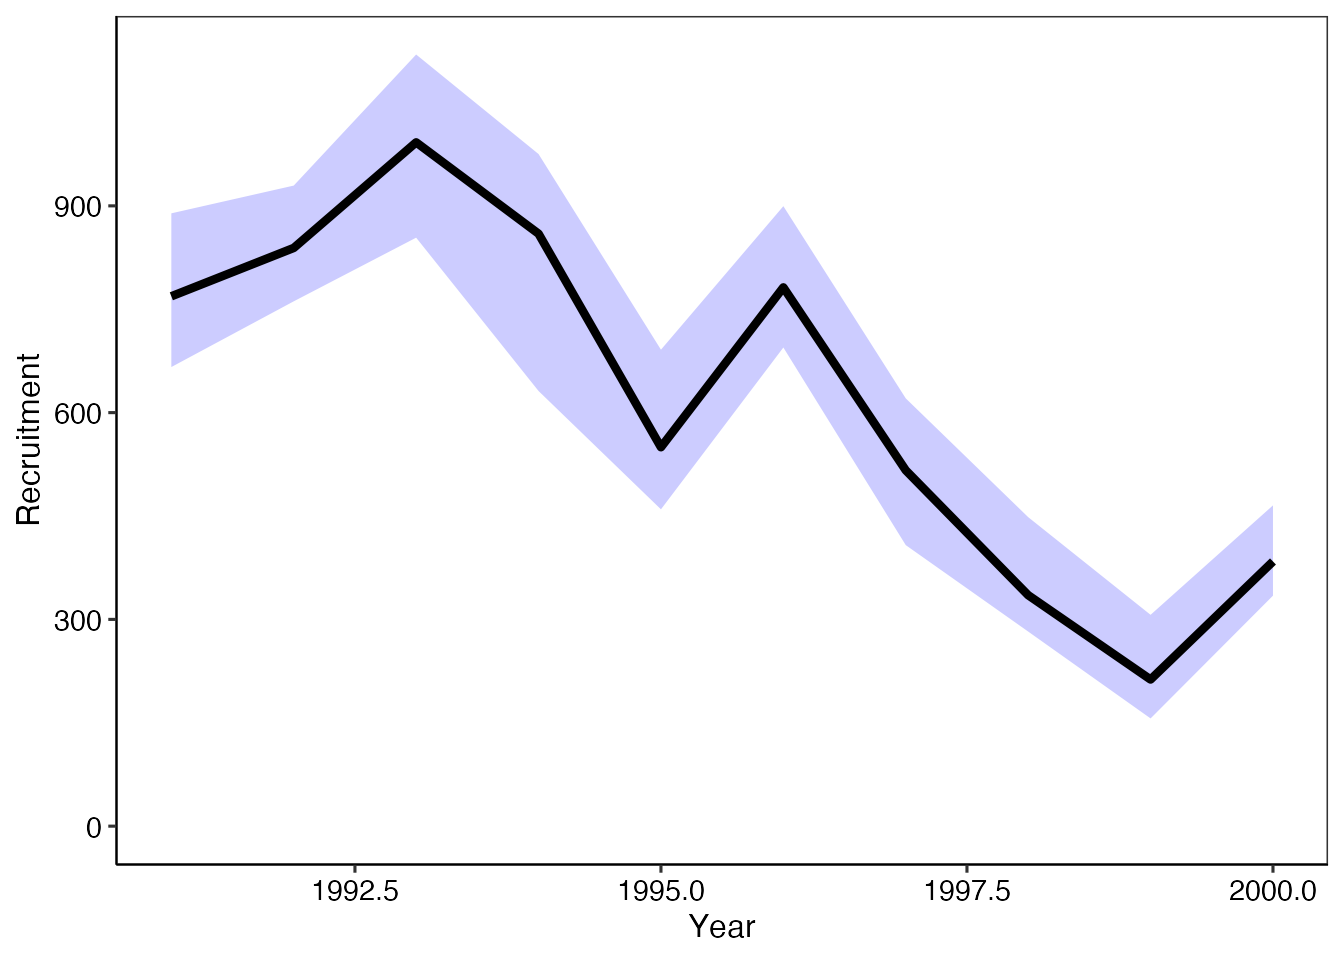
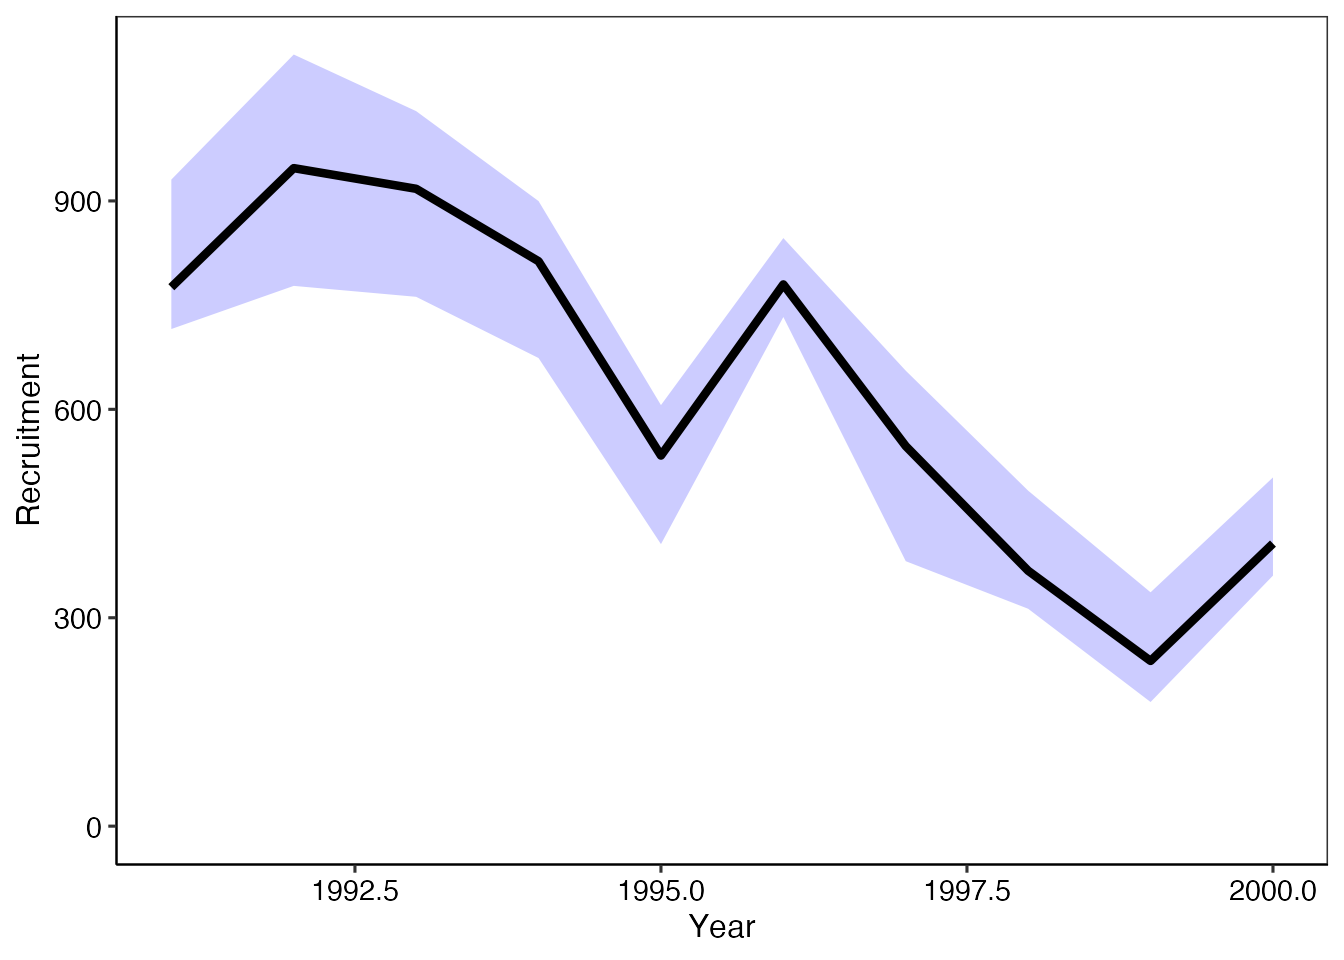
Built site for frasyr: 2.1.1.0@6f21609

diff --git a/articles/Diagnostics-for-VPA.html b/articles/Diagnostics-for-VPA.html
@@ -430,7 +430,7 @@
 <p>を指定します。コマンドは以下の通りです。</p>
 <div class="sourceCode" id="cb25"><pre class="downlit">
 <span class="va">res_vpa_jitter</span> <span class="op">&lt;-</span> <span class="fu"><a href="../reference/do_estcheck_vpa.html">do_estcheck_vpa</a></span><span class="op">(</span><span class="va">res_vpa_estb</span>, n_ite<span class="op">=</span><span class="fl">10</span><span class="op">)</span></pre></div>
-<pre><code>Maximum likelihood in jitter analysis is:  23.36542 
+<pre><code>Maximum likelihood in jitter analysis is:  23.60018 
 Likelihood with estimated parameters is:  23.60018 </code></pre>
 <p>最初に引数で与えたVPA結果について、</p>
 <ul>
@@ -564,8 +564,8 @@ Likelihood with estimated parameters is:  23.60018 </code></pre>
 <span class="va">res_tmp</span> <span class="op">&lt;-</span> <span class="fu"><a href="https://rdrr.io/r/base/numeric.html">numeric</a></span><span class="op">(</span><span class="op">)</span>
 <span class="kw">for</span><span class="op">(</span><span class="va">i</span> <span class="kw">in</span> <span class="fl">1</span><span class="op">:</span><span class="fl">10</span><span class="op">)</span> <span class="va">res_tmp</span><span class="op">[</span><span class="va">i</span><span class="op">]</span> <span class="op">&lt;-</span> <span class="fu"><a href="https://rdrr.io/r/base/numeric.html">as.numeric</a></span><span class="op">(</span><span class="va">res_vpa_bootstrap</span><span class="op">$</span><span class="va">res_boot</span><span class="op">[[</span><span class="va">i</span><span class="op">]</span><span class="op">]</span><span class="op">$</span><span class="va">Fc.at.age</span><span class="op">[</span><span class="fl">4</span><span class="op">]</span><span class="op">)</span>
 <span class="fu"><a href="https://rdrr.io/r/stats/quantile.html">quantile</a></span><span class="op">(</span><span class="va">res_tmp</span>, probs <span class="op">=</span> <span class="fu"><a href="https://rdrr.io/r/base/c.html">c</a></span><span class="op">(</span><span class="fl">0.025</span>,<span class="fl">0.5</span>,<span class="fl">0.975</span><span class="op">)</span><span class="op">)</span></pre></div>
-<pre><code>      2.5%        50%      97.5% 
- 0.4763838  0.8260563 40.1179881 </code></pre>
+<pre><code>     2.5%       50%     97.5% 
+0.4316215 0.8856317 7.0481679 </code></pre>
 <p>この他、各パラメータの相関関係について、ブートストラップ標本を基にプロットが得られます。</p>
 <div class="sourceCode" id="cb41"><pre class="downlit">
 <span class="va">res_vpa_bootstrap</span><span class="op">$</span><span class="va">plot_cor</span></pre></div>
